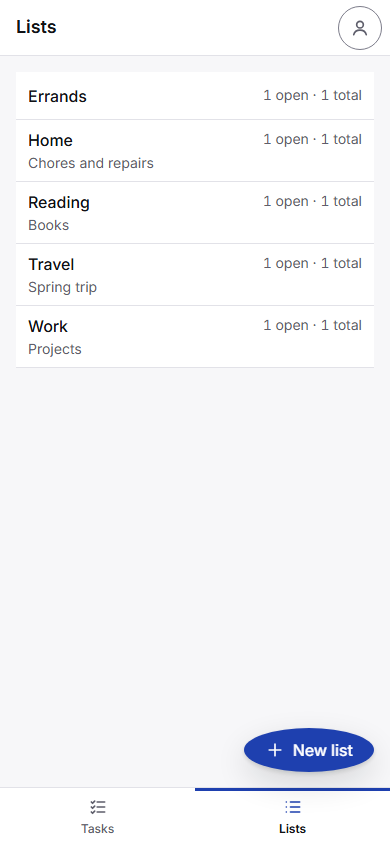
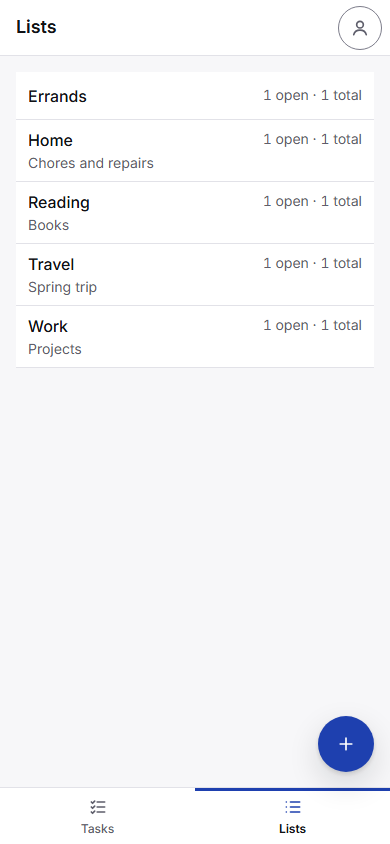
Replaced the stale pill screenshots of T0060 with captures of the circular button.

Changed region(s): [[0.6154, 0.8318, 0.9538, 0.9242]]

diff --git a/tasks/T0060-replace-the-top-bar-more-button-with-a/validation-proof.md b/tasks/T0060-replace-the-top-bar-more-button-with-a/validation-proof.md
@@ -90,7 +90,7 @@ OK: 55 precached files match VERSION 2026-11-06.8.
 ```
 
 ### Screenshots
-- Before: [compact](before-lists-compact.png) and [wide](before-lists-wide.png).
+- Before (the shell with the top-bar More button and the header New list button): [compact](before-lists-compact.png) and [wide](before-lists-wide.png).
 - After: [compact](after-lists-compact.png), [wide](after-lists-wide.png), and [wide with the editor open](after-lists-wide-editor-open.png).
 - After, dark: [compact](after-dark-lists-compact.png) and [wide](after-dark-lists-wide.png).
 - Capture check: no console errors, page errors, or 404s in any capture session.
@@ -182,4 +182,4 @@ OK: 55 precached files match VERSION 2026-11-06.12.
 `npx eslint .`, exit code 0: no output.
 
 ### Screenshots
-- [Compact](after-circle-lists-compact.png), [wide](after-circle-lists-wide.png), and [compact, dark](after-circle-dark-lists-compact.png).
+The After screenshots above were recaptured with the circular button, so they show the final state.
